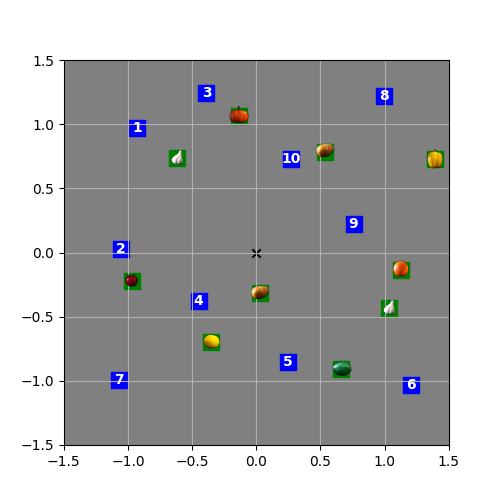
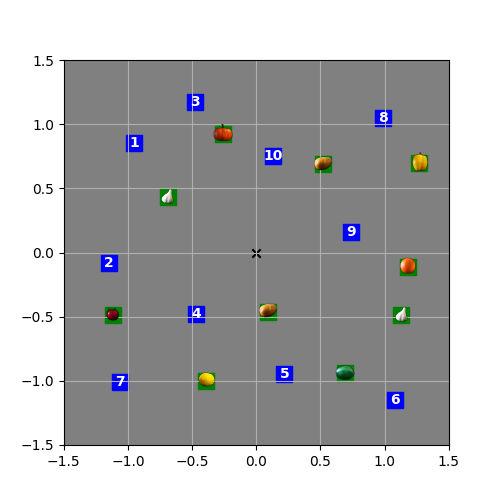
get signs right for level1

diff --git a/Week12/auto_fruit_search_new_strat.py b/Week12/auto_fruit_search_new_strat.py
@@ -449,10 +449,10 @@ def add_waypoint_from_click(mouse_pos: tuple):
     x = (mouse_pos[0] - x_offset)  * x_scaling
     y = (mouse_pos[1] - y_offset)  * y_scaling
     
-    print(x,y)
+    print(x,-y)
 
     # robot drives to the waypoint
-    operate.cur_waypoint = [x, y]
+    operate.cur_waypoint = [x, -y]
             
 def drive(aruco_true_pos, initial = 0):
     '''
@@ -842,17 +842,6 @@ if __name__ == "__main__":
             pygame.display.update()
             counter += 2
 
-    ## Testing for Level 1
-    # operate.fruit_to_find = search_list.pop(0)
-    # fruit_index = fruits_list.index(operate.fruit_to_find.lower())
-    # obstacle_index = obstacle_list.index(operate.fruit_to_find.lower())
-    # print(fruit_index)
-    # obstacle_list.pop(operate.fruit_to_find)        # Removes the finding fruit from obstacle list
-    
-    # operate.all_waypoints = astar.a_start(0, 0, fruits_true_pos[fruit_index][0], fruits_true_pos[fruit_index][1], obstacle_list)
-    # obstacle_list.insert(fruit_index, operate.fruit_to_find)        # Add the finding fruit back to obstacle list
-    # print(operate.all_waypoints)
-
     if args.auto:
         ### for Autonomous Waypoints (COMMENT THIS OUT : Do not use thiss until its time to test)
         try:
@@ -963,18 +952,24 @@ if __name__ == "__main__":
 
     else: # level 1 code
         while start:
-            operate.update_keyboard()
-            operate.take_pic()
-            drive(aruco_true_pos)
-            drive_meas = operate.control()
-            operate.update_slam(drive_meas)
-            operate.robot_pose = operate.ekf.robot.state[:3,0]
-            # print(operate.robot_pose)
-            operate.record_data()
-            operate.save_image()
-            operate.detect_target()
-            # visualise
-            operate.draw(canvas)
-            pygame.display.update()
+            try:
+                operate.update_keyboard()
+                operate.take_pic()
+                drive(aruco_true_pos)
+                drive_meas = operate.control()
+                operate.update_slam(drive_meas)
+                operate.robot_pose = operate.ekf.robot.state[:3,0]
+                # print(operate.robot_pose)
+                operate.record_data()
+                operate.save_image()
+                operate.detect_target()
+                # visualise
+                operate.draw(canvas)
+                pygame.display.update()
+            except KeyboardInterrupt:
+                operate.command['motion'] = [0,0]
+                drive_meas = operate.control()
+                print("Done")
+                raise
         
     
